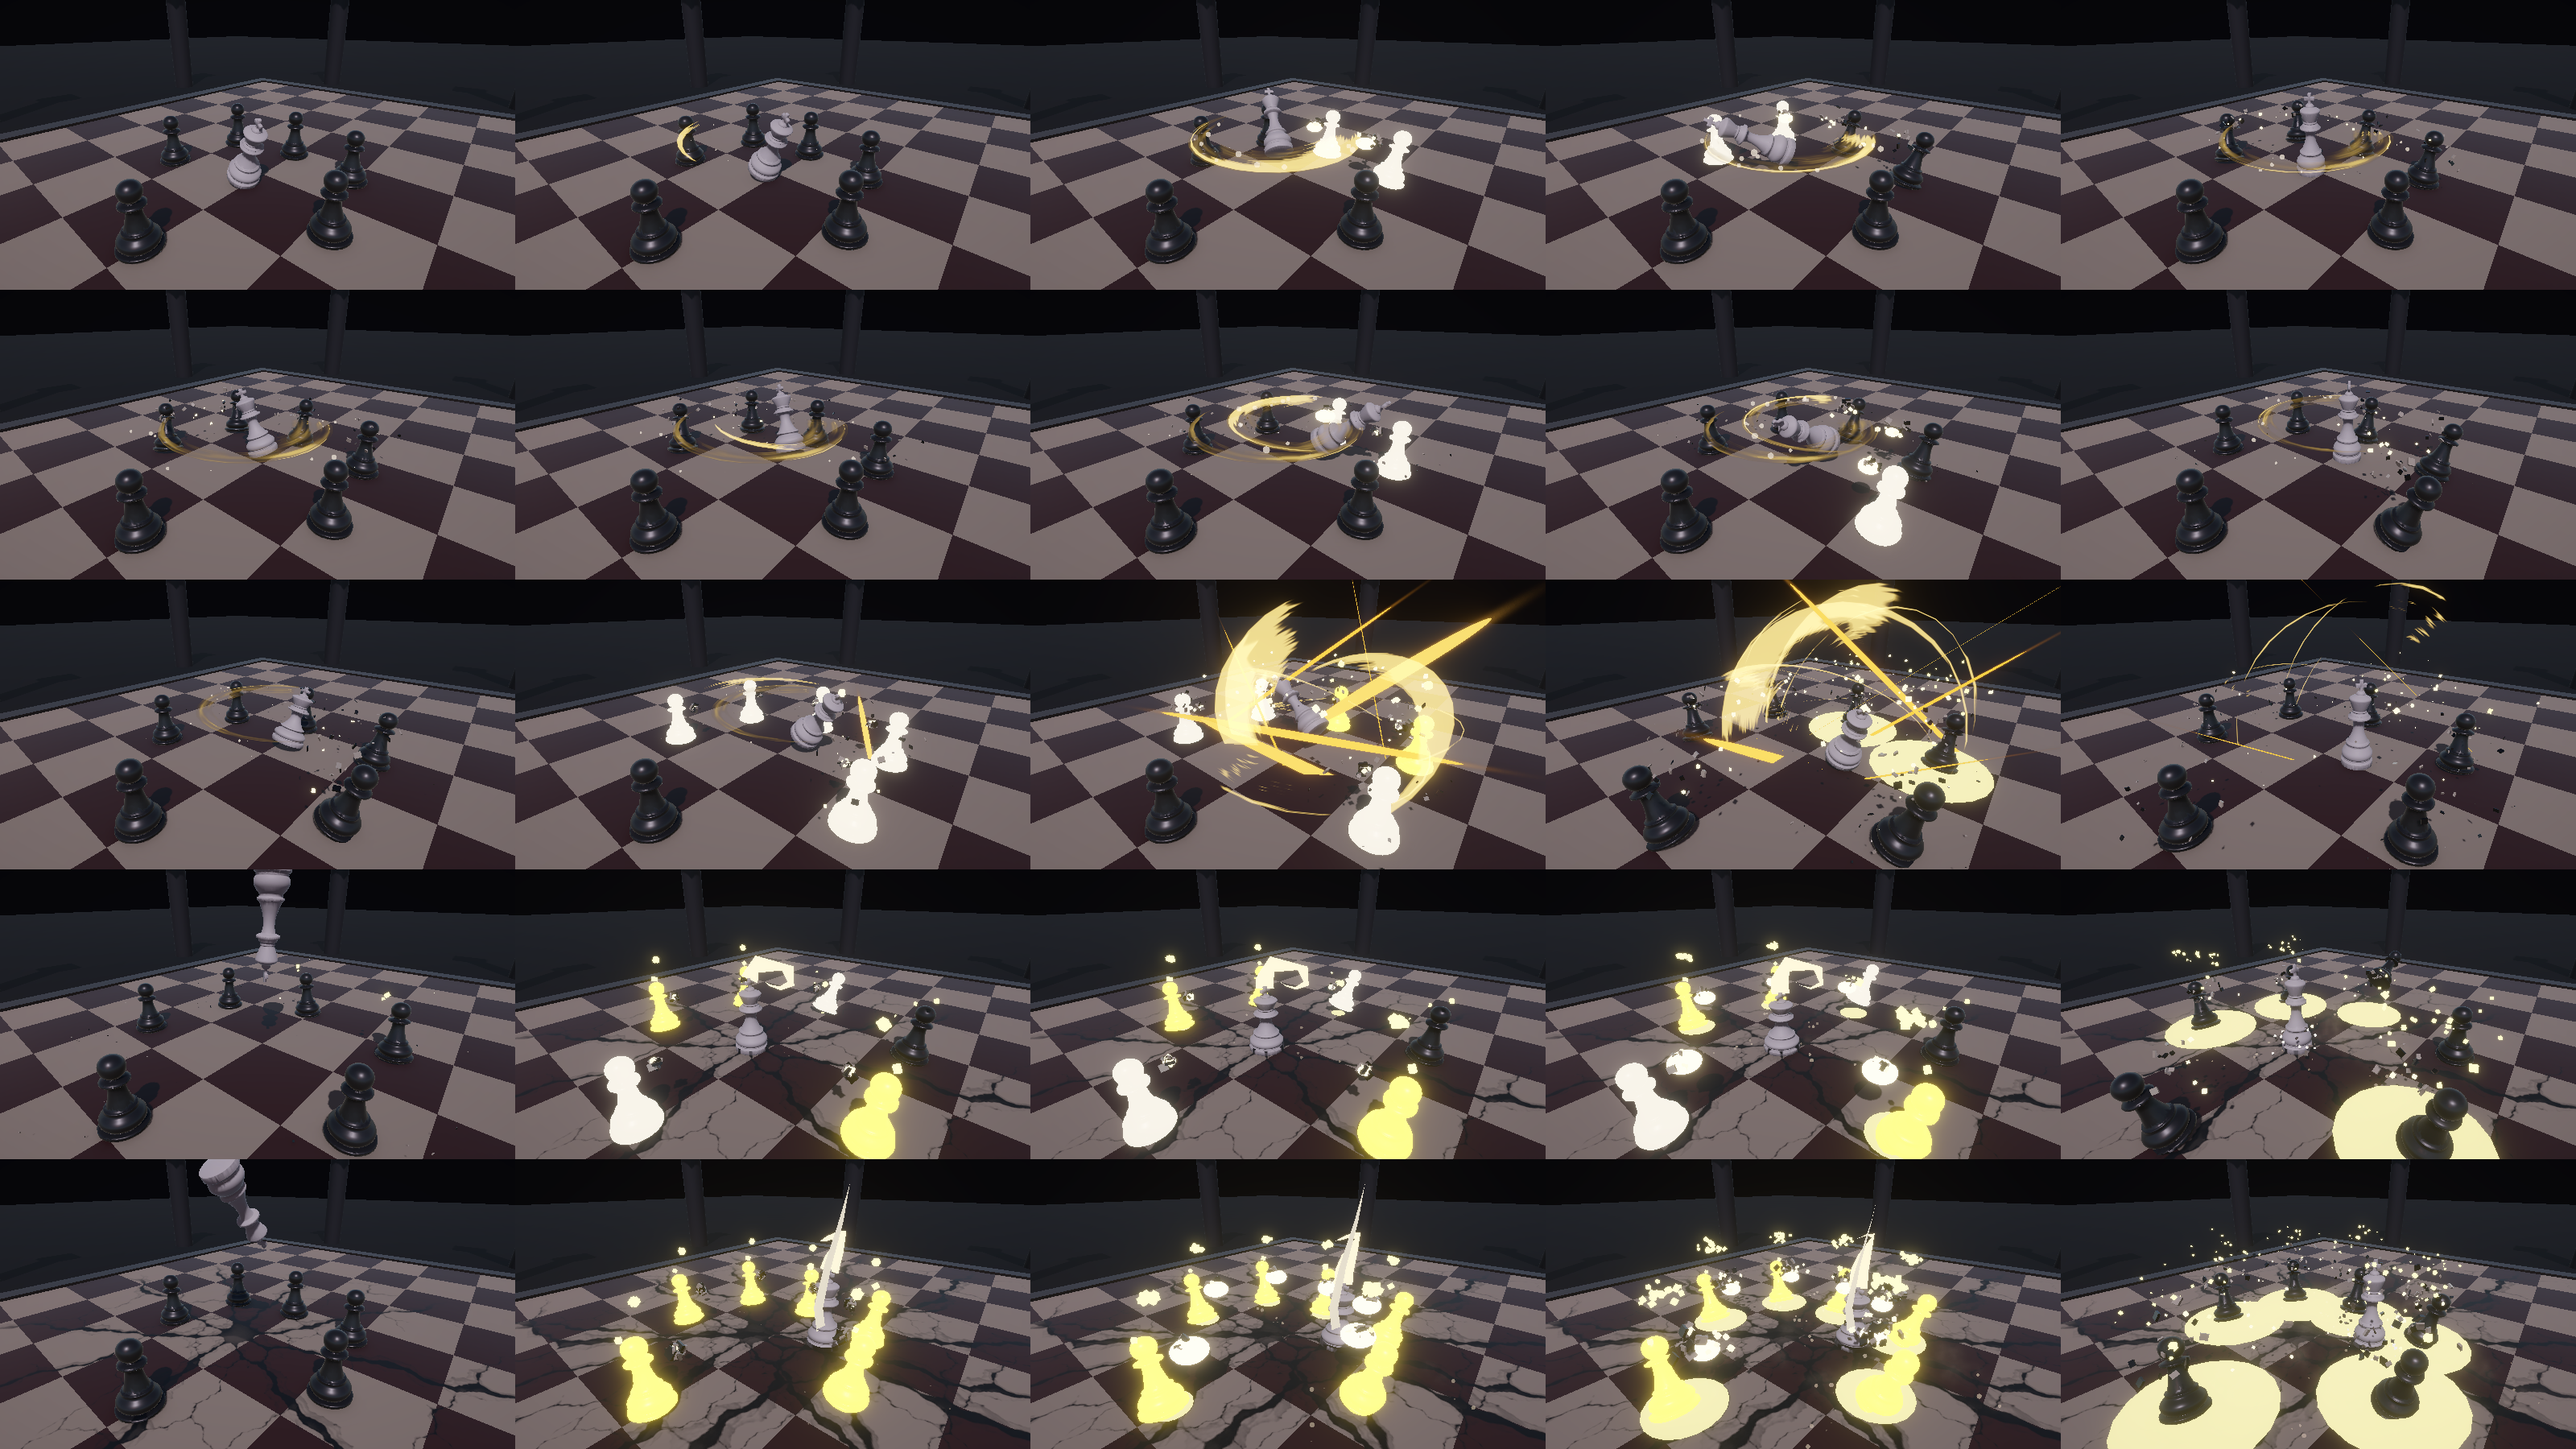
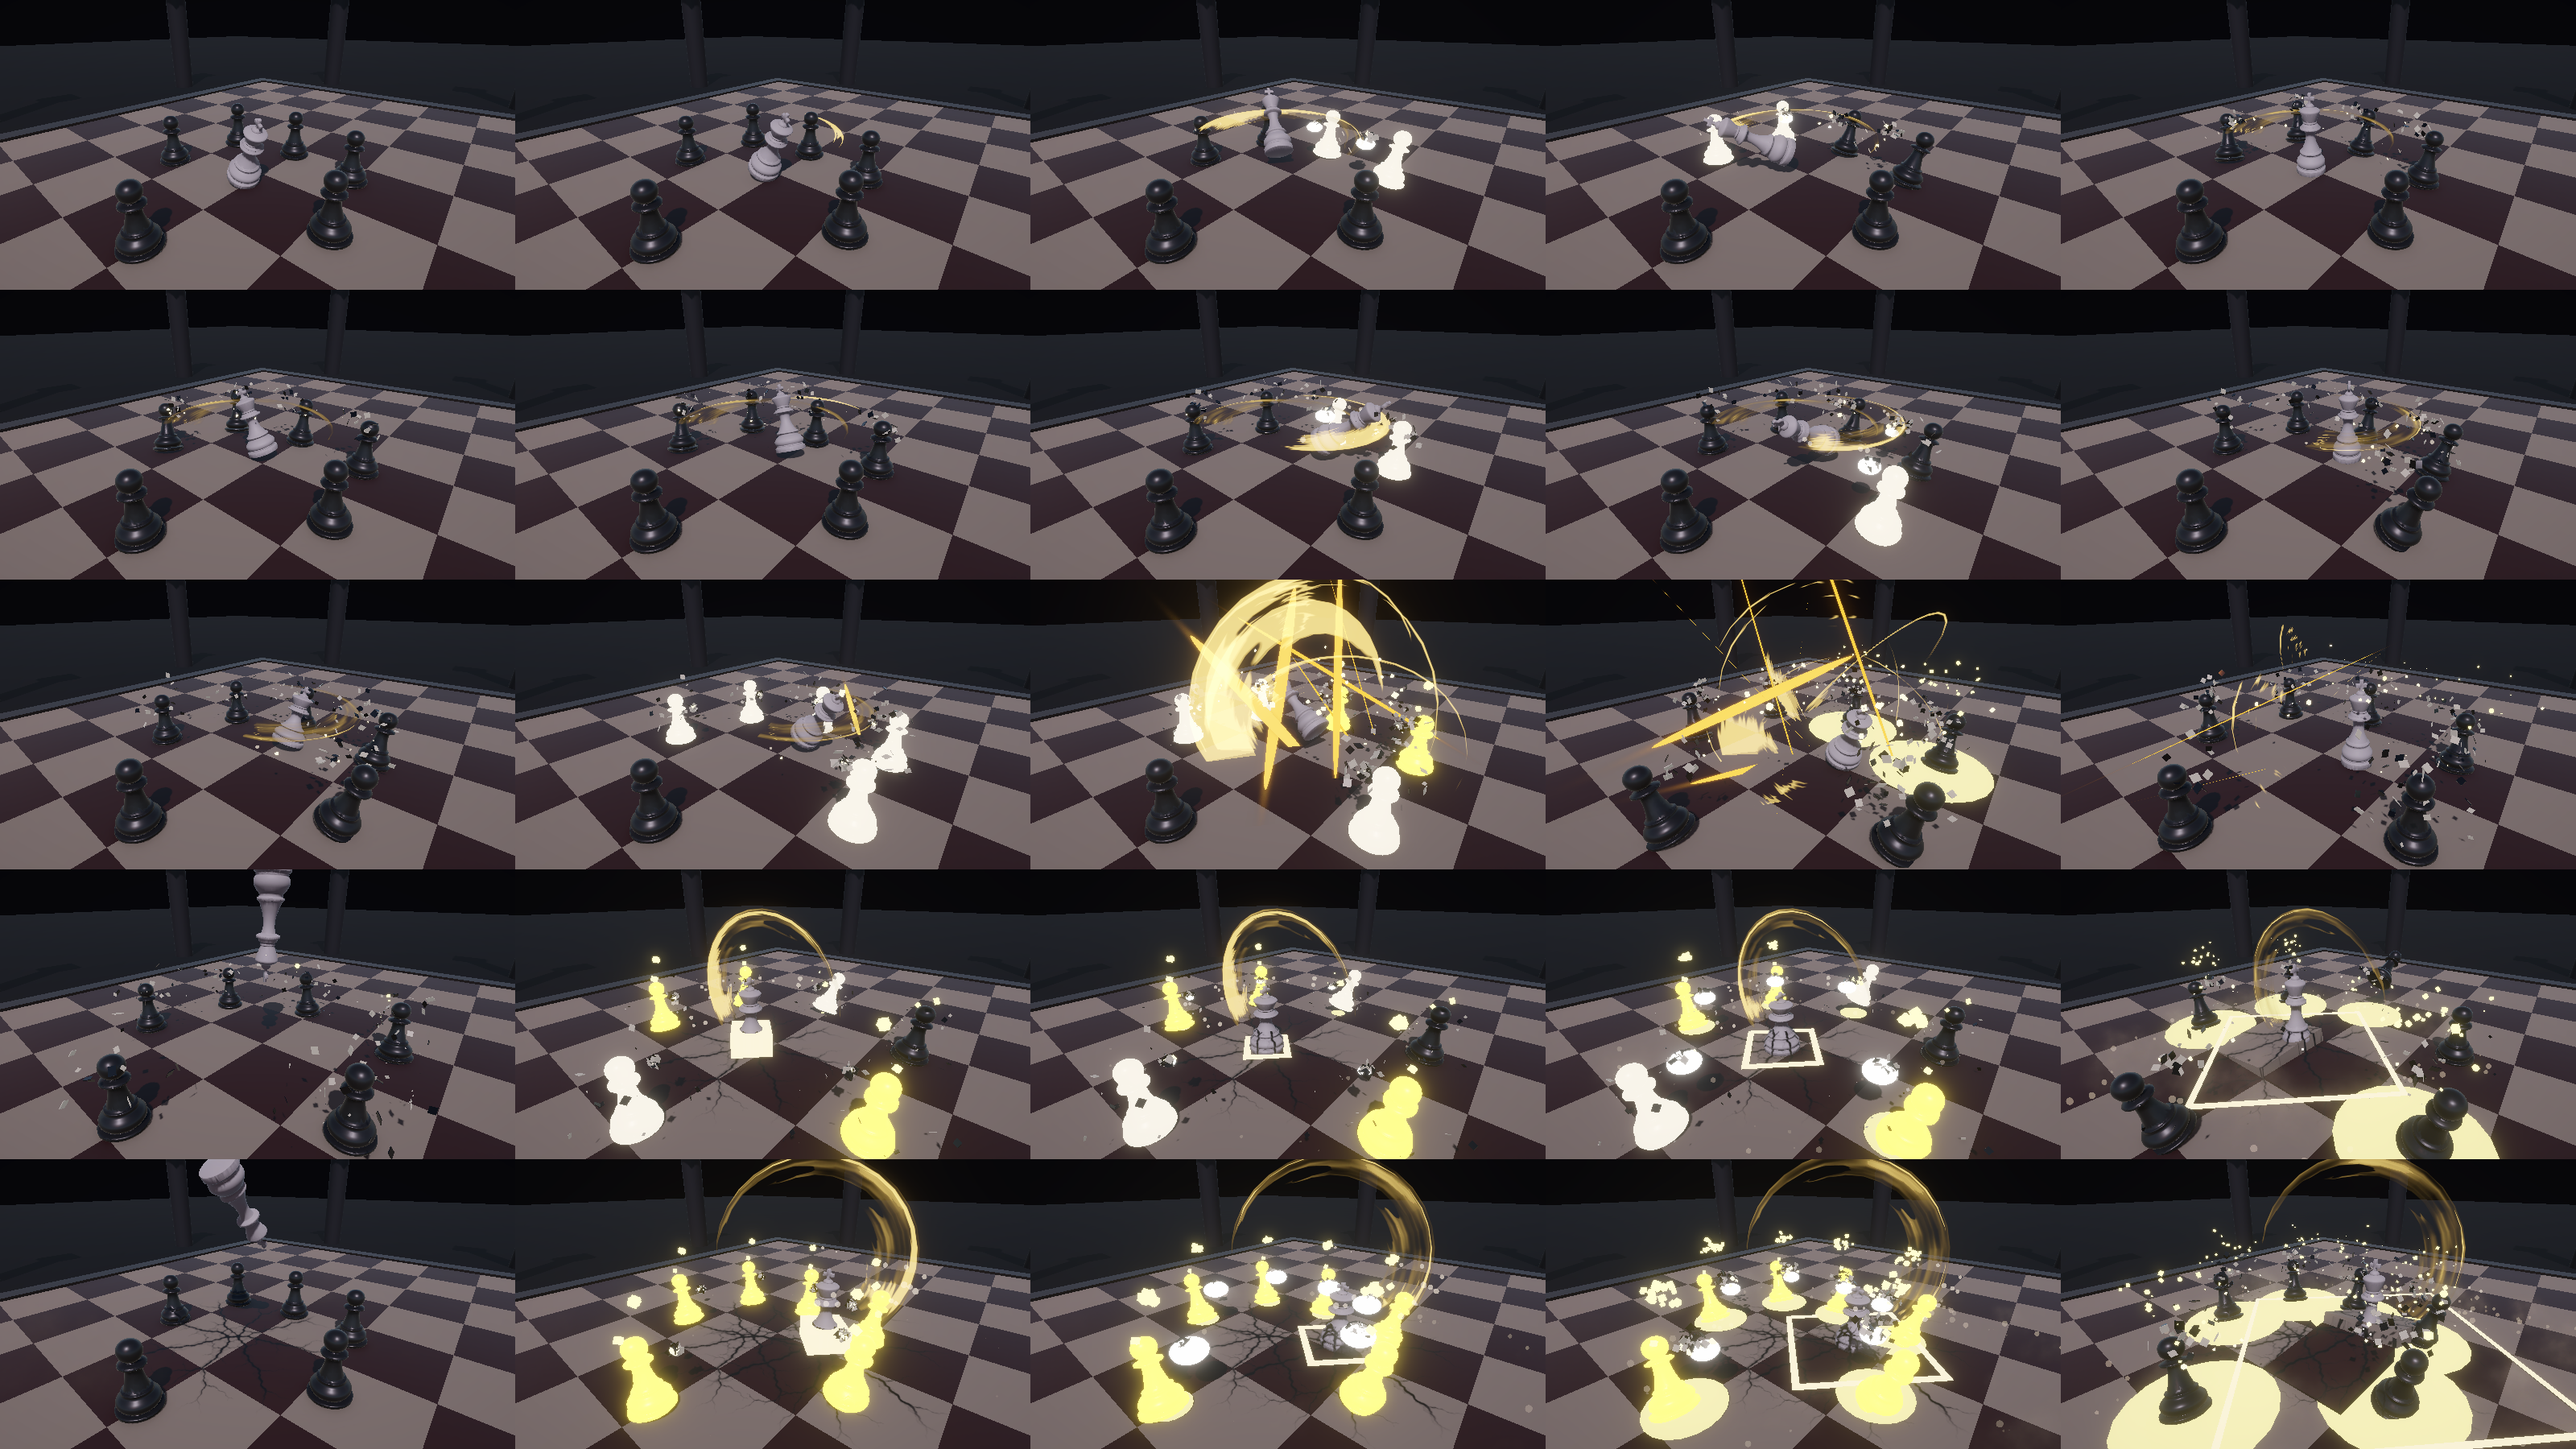
Board Ripple (C) is the main effect style; denser, longer dust
- Vfx.Style defaults to BoardRipple (chosen in the Effects Lab)
- Dust: more puffs, 2.5x particle lifetime, 1.35x size, stronger alpha

diff --git a/Assets/Scripts/Core/Vfx.cs b/Assets/Scripts/Core/Vfx.cs
@@ -15,7 +15,8 @@ namespace KingLastPiece
     /// </summary>
     public static class Vfx
     {
-        public static VfxStyle Style = VfxStyle.CrackedBoard;
+        // Chosen in the Effects Lab: C. Board Ripple.
+        public static VfxStyle Style = VfxStyle.BoardRipple;
 
         public static readonly string[] Names = { "A. Classic", "B. Cracked Board", "C. Board Ripple" };
         public static readonly string[] Descriptions =
@@ -69,7 +70,7 @@ namespace KingLastPiece
 
         /// <param name="keep">When set, only particle systems whose (lower-case) name passes keep emitting.</param>
         static bool Slash(SlashFxKind kind, Vector3 pos, Quaternion rot, float scale, Color? tint, System.Predicate<string> keep,
-                          bool mirror = false)
+                          bool mirror = false, float dustLife = 1f)
         {
             Vector3 facingRight = rot * Vector3.right;
             var lib = FxLibrary.Instance;
@@ -122,7 +123,16 @@ namespace KingLastPiece
                 var main = ps.main;
                 main.scalingMode = ParticleSystemScalingMode.Hierarchy;
                 bool dust = n.Contains("dust") || n.Contains("smoke");
-                if (dust) Recolor(ps, DustColor);  // neutral dust, never "enemy red"
+                if (dust)
+                {
+                    Recolor(ps, DustColor, dustLife > 1f ? 1f : (float?)null);  // neutral dust, never "enemy red"
+                    if (dustLife > 1f)
+                    {
+                        // Denser, longer-lived dust: bigger, opaque-ish particles that linger.
+                        main.startLifetimeMultiplier *= dustLife;
+                        main.startSizeMultiplier *= 1.35f;
+                    }
+                }
                 else if (tint.HasValue) Recolor(ps, tint.Value);
                 if (dust || tint.HasValue)
                 {
@@ -133,14 +143,15 @@ namespace KingLastPiece
                     if (r.trailMaterial != null) r.trailMaterial = VertexColored(r.trailMaterial);
                 }
             }
-            Object.Destroy(fx, 2.2f);
+            Object.Destroy(fx, 2.2f * Mathf.Max(1f, dustLife));
             return true;
         }
 
         /// <summary>World-yaw correction applied to directional NamuFX slashes (calibrated in Effects Lab E6).</summary>
         public static float SlashYawFix = 180f;
 
-        static readonly Color DustColor = new Color(0.55f, 0.5f, 0.45f);
+        static readonly Color DustColor = new Color(0.5f, 0.46f, 0.41f);
+        const float DustLife = 2.5f;
 
         /// <summary>
         /// Low dust burst around a landing: only the smoke / dust layers of the NamuFX prefabs (no slashes),
@@ -151,13 +162,14 @@ namespace KingLastPiece
             center.y = 0.15f;
             bool any = false;
             System.Predicate<string> dustOnly = n => n.Contains("smoke") || n.Contains("dust");
-            int puffs = Mathf.Clamp(Mathf.RoundToInt(radius * 1.6f), 3, 7);
+            int puffs = Mathf.Clamp(Mathf.RoundToInt(radius * 2.4f), 5, 11);
             float offset = Random.value * 360f;
             for (int i = 0; i < puffs; i++)
             {
                 Vector3 d = Quaternion.Euler(0f, offset + i * 360f / puffs, 0f) * Vector3.forward;
                 var kind = i % 2 == 0 ? SlashFxKind.AoeA : SlashFxKind.SlashA;
-                any |= Slash(kind, center + d * radius * 0.6f, Quaternion.LookRotation(d), Mathf.Lerp(0.7f, 1.2f, radius / 4f), null, dustOnly);
+                any |= Slash(kind, center + d * radius * Random.Range(0.45f, 0.75f), Quaternion.LookRotation(d),
+                    Mathf.Lerp(0.9f, 1.5f, radius / 4f), null, dustOnly, false, DustLife);
             }
             if (!any) Effects.Shockwave(center, radius * 0.7f, new Color(0.22f, 0.2f, 0.18f), 0.45f);
             Effects.Sparks(center, DustColor, Mathf.RoundToInt(6 + radius * 3f), 3.5f);
@@ -178,10 +190,11 @@ namespace KingLastPiece
         }
 
         /// <summary>Recolors a particle system: start color and the color-over-lifetime gradient (alpha kept).</summary>
-        static void Recolor(ParticleSystem ps, Color c)
+        /// <param name="alpha">When set: start alpha override, and the lifetime alpha curve is strengthened (denser).</param>
+        static void Recolor(ParticleSystem ps, Color c, float? alpha = null)
         {
             var main = ps.main;
-            float a = main.startColor.mode == ParticleSystemGradientMode.Color ? main.startColor.color.a : 1f;
+            float a = alpha ?? (main.startColor.mode == ParticleSystemGradientMode.Color ? main.startColor.color.a : 1f);
             main.startColor = new ParticleSystem.MinMaxGradient(new Color(c.r, c.g, c.b, a));
             var trails = ps.trails;
             if (trails.enabled)
@@ -196,9 +209,13 @@ namespace KingLastPiece
             if (!col.enabled) return;
             var src = col.color.mode == ParticleSystemGradientMode.TwoGradients ? col.color.gradientMax : col.color.gradient;
             if (src == null) return;
+            var alphaKeys = src.alphaKeys;
+            if (alpha.HasValue)
+                for (int i = 0; i < alphaKeys.Length; i++)
+                    alphaKeys[i].alpha = Mathf.Clamp01(alphaKeys[i].alpha * 1.6f);
             var g = new Gradient();
             g.SetKeys(new[] { new GradientColorKey(Color.Lerp(c, Color.white, 0.55f), 0f), new GradientColorKey(c, 0.5f), new GradientColorKey(c * 0.8f, 1f) },
-                src.alphaKeys);
+                alphaKeys);
             col.color = new ParticleSystem.MinMaxGradient(g);
         }
 
